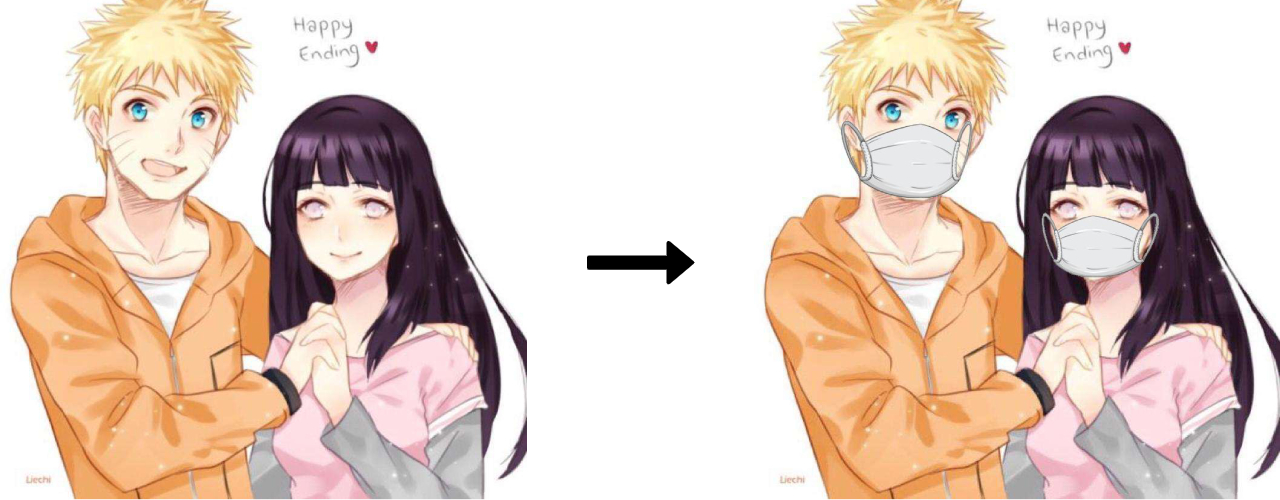
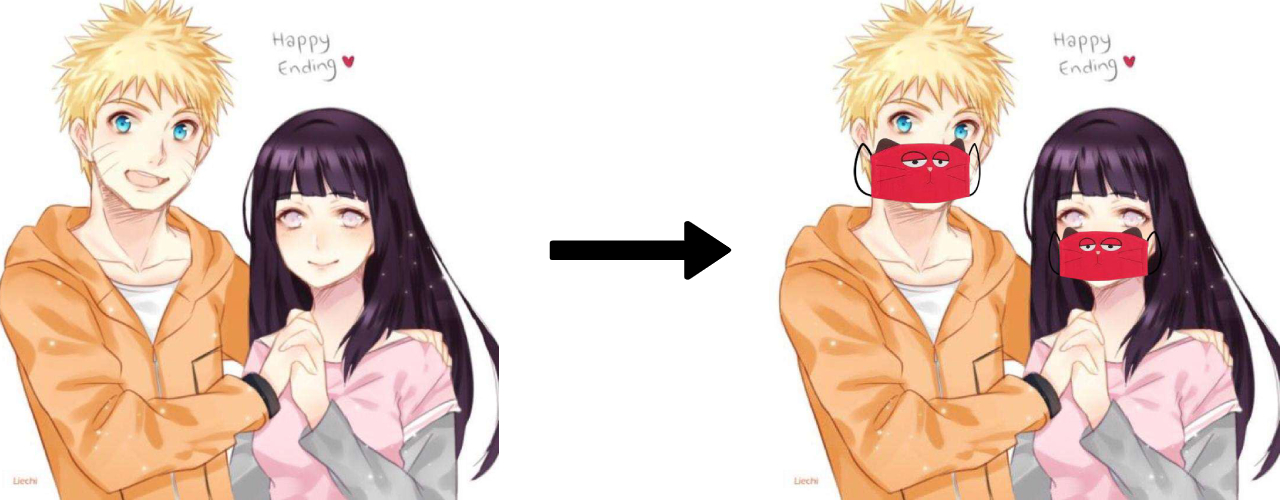
Support black, blue, red masks

diff --git a/face_mask/__main__.py b/face_mask/__main__.py
@@ -4,17 +4,24 @@ import argparse
 import numpy as np
 from PIL import Image, ImageFile
 
-__version__ = '0.1.0'
+__version__ = '0.2.0'
 
 
 IMAGE_DIR = os.path.join(os.path.dirname(os.path.abspath(__file__)), 'images')
 DEFAULT_IMAGE_PATH = os.path.join(IMAGE_DIR, 'default-mask.png')
+BLACK_IMAGE_PATH = os.path.join(IMAGE_DIR, 'black-mask.png')
+BLUE_IMAGE_PATH = os.path.join(IMAGE_DIR, 'blue-mask.png')
+RED_IMAGE_PATH = os.path.join(IMAGE_DIR, 'red-mask.png')
 
 
 def cli():
     parser = argparse.ArgumentParser(description='Wear a face mask in the given picture.')
     parser.add_argument('pic_path', help='Picture path.')
     parser.add_argument('--show', action='store_true', help='Whether show picture with mask or not.')
+    group = parser.add_mutually_exclusive_group()
+    group.add_argument('--black', action='store_true', help='Wear black mask')
+    group.add_argument('--blue', action='store_true', help='Wear blue mask')
+    group.add_argument('--red', action='store_true', help='Wear red mask')
     args = parser.parse_args()
 
     pic_path = args.pic_path
@@ -22,14 +29,24 @@ def cli():
         print(f'Picture {pic_path} not exists.')
         sys.exit(1)
 
-    FaceMasker(pic_path, args.show).mask()
+    if args.black:
+        mask_path = BLACK_IMAGE_PATH
+    elif args.blue:
+        mask_path = BLUE_IMAGE_PATH
+    elif args.red:
+        mask_path = RED_IMAGE_PATH
+    else:
+        mask_path = DEFAULT_IMAGE_PATH
+
+    FaceMasker(pic_path, mask_path, args.show).mask()
 
 
 class FaceMasker:
     KEY_FACIAL_FEATURES = ('nose_bridge', 'chin')
 
-    def __init__(self, face_path, show=False):
+    def __init__(self, face_path, mask_path, show=False):
         self.face_path = face_path
+        self.mask_path = mask_path
         self.show = show
         self._face_img: ImageFile = None
         self._mask_img: ImageFile = None
@@ -40,7 +57,7 @@ class FaceMasker:
         face_image_np = face_recognition.load_image_file(self.face_path)
         face_landmarks = face_recognition.face_landmarks(face_image_np)
         self._face_img = Image.fromarray(face_image_np)
-        self._mask_img = Image.open(DEFAULT_IMAGE_PATH)
+        self._mask_img = Image.open(self.mask_path)
 
         found_face = False
         for face_landmark in face_landmarks:

diff --git a/README.md b/README.md
@@ -19,12 +19,22 @@ Specify face picture path and then auto save to face with mask picture path
 face-mask /path/to/face/picture
 ```
 
-If you want see the new picture with default viewer, please specify `--show` option.
+If you want to see the new picture with default viewer, please specify `--show` option.
 ```bash
 face-mask /path/to/face/picture --show
 ```
 
-## Effect
+If you want to wear different mask to face, then specify one of the options below:
+- `--black` for black mask
+- `--blue` for blue mask
+- `--red` for red mask
+
+For instance:
+```bash
+face-mask /path/to/face/picture --blue
+```
+
+## Effects
 ### One person wears a mask
 ![](images/face-mask-single.jpg)
 
